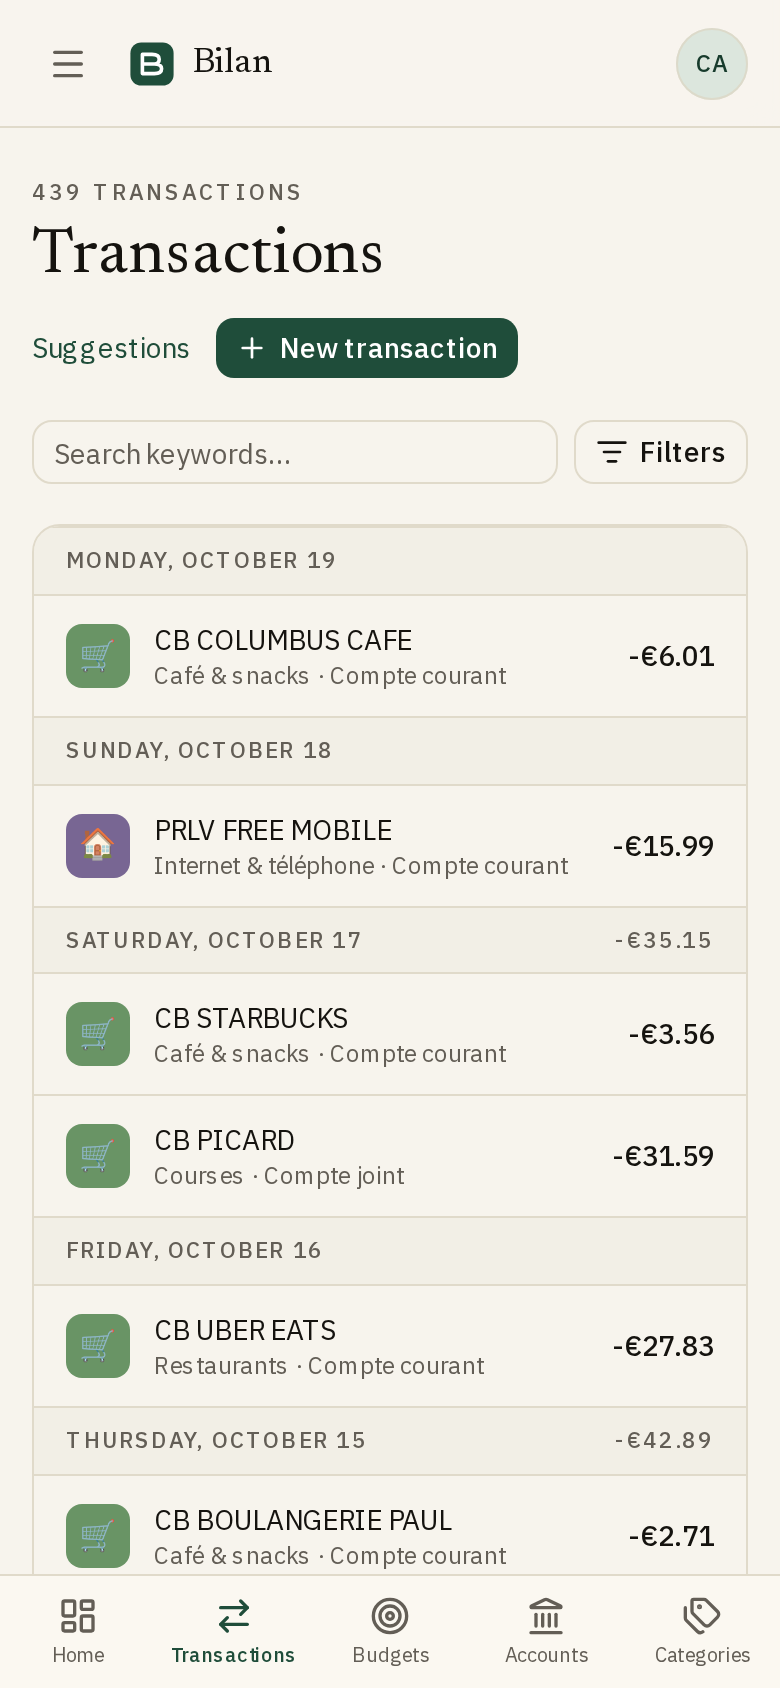
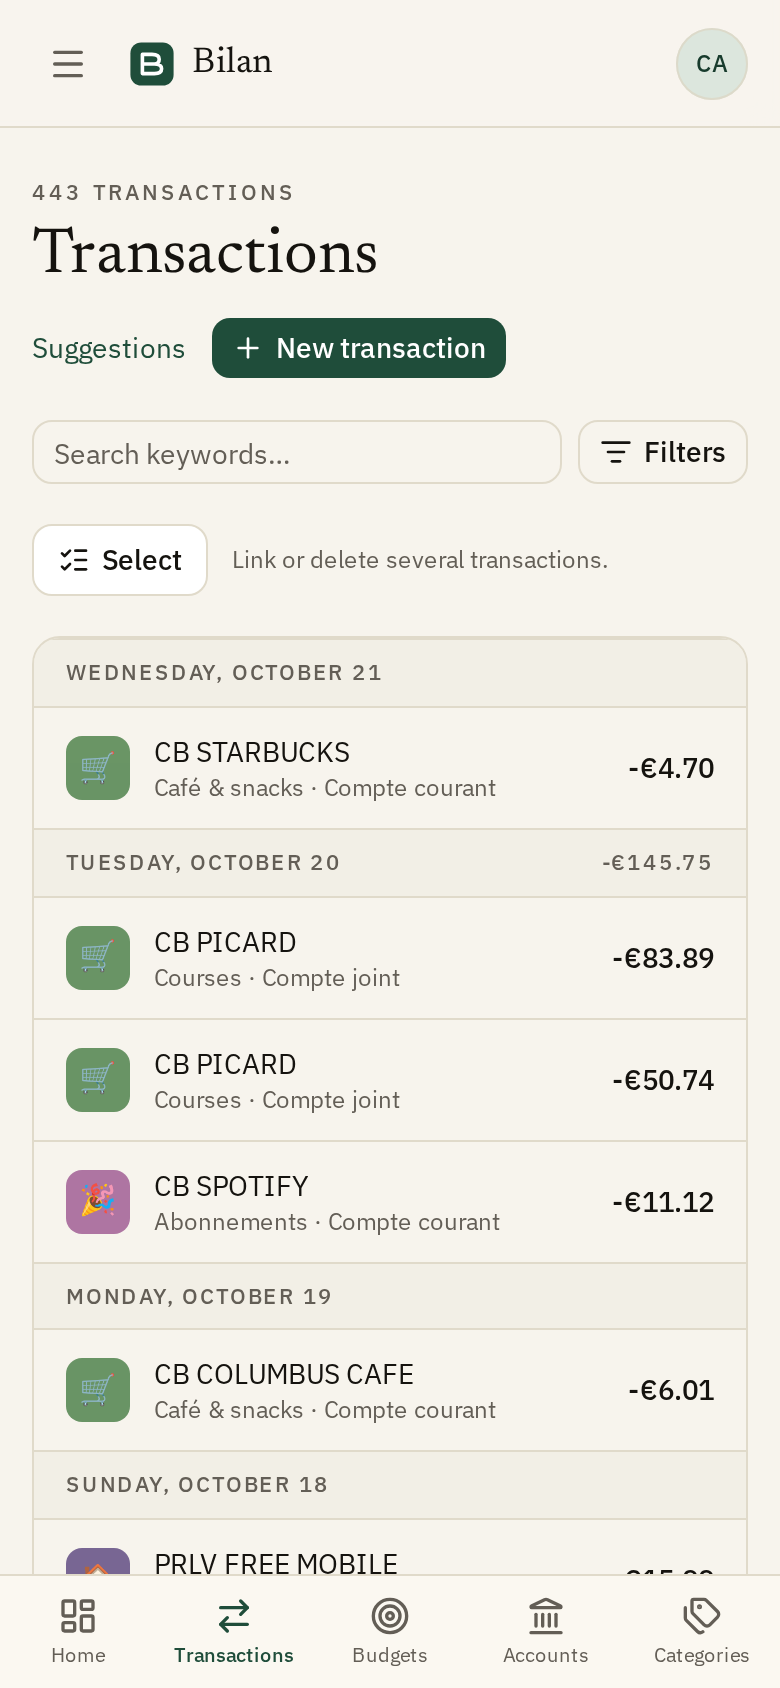
feat: show the selection mode on every screen and start a link from a transaction (#336)
* feat: show the selection mode on every screen and start a link from a transaction

* docs: refresh the transactions screenshots for the selection button and link entry

diff --git a/src/components/transactions/transaction-list.tsx b/src/components/transactions/transaction-list.tsx
@@ -2,6 +2,7 @@
 
 import { useState, useTransition } from "react";
 import { useLocale, useTranslations } from "next-intl";
+import { ListChecks } from "lucide-react";
 import { useRouter } from "next/navigation";
 import { CategoryAvatar, CategoryChip, Pill } from "./bits";
 import { type FlatCategory } from "./category-tree";
@@ -96,9 +97,13 @@ export function TransactionList({
   const tLink = useTranslations("transactions.link");
   const linkErrorMessage = useLinkErrorMessage();
   const tSel = useTranslations("transactions.selection");
-  const { selecting, picked, setSelecting, togglePicked } = useSelectionMode();
-  // Picks survive filter changes (the provider sits above the list): act on visible rows only.
-  const pickedIds = items.filter((i) => picked.has(i.id)).map((i) => i.id);
+  const { selecting, picked, anchor, setSelecting, startFrom, togglePicked } = useSelectionMode();
+  // Picks survive filter changes (the provider sits above the list): act on visible rows only,
+  // plus the anchor, which the selection bar names while it is hidden.
+  const visiblePicked = items.filter((i) => picked.has(i.id)).map((i) => i.id);
+  const hiddenAnchor =
+    anchor && picked.has(anchor.id) && !visiblePicked.includes(anchor.id) ? anchor : null;
+  const pickedIds = hiddenAnchor ? [hiddenAnchor.id, ...visiblePicked] : visiblePicked;
   const [linkPending, startLinkTransition] = useTransition();
   // Tied to the picks it was raised for, so changing the selection clears it.
   const [linkError, setLinkError] = useState<{ ids: string; message: string } | null>(null);
@@ -143,6 +148,10 @@ export function TransactionList({
   const selectionBar = selecting && (
     <SelectionBar
       count={pickedIds.length}
+      hiddenAnchor={
+        hiddenAnchor &&
+        `${hiddenAnchor.label} · ${new Intl.NumberFormat(locale, { style: "currency", currency: "EUR" }).format(hiddenAnchor.amount)}`
+      }
       linkPending={linkPending}
       error={linkError?.ids === pickedIds.join(",") ? linkError.message : null}
       onExit={() => setSelecting(false)}
@@ -225,16 +234,17 @@ export function TransactionList({
 
   return (
     <div className={`space-y-5 ${selecting ? "pb-20" : ""}`}>
-      {/* On mobile, selection mode is entered from the filter sheet. */}
       {!selecting && (
-        <div className="hidden lg:flex">
+        <div className="flex items-center gap-3">
           <button
             type="button"
             onClick={() => setSelecting(true)}
-            className="border-border text-muted-foreground hover:text-foreground inline-flex h-8 items-center gap-1.5 rounded-lg border px-2.5 text-[0.8rem]"
+            className="border-border bg-card hover:bg-muted inline-flex h-9 items-center gap-1.5 rounded-lg border px-3 text-sm font-medium"
           >
+            <ListChecks className="size-4" />
             {tSel("mode")}
           </button>
+          <span className="text-muted-foreground text-xs">{tSel("hint")}</span>
         </div>
       )}
 
@@ -367,6 +377,11 @@ export function TransactionList({
         }}
         onRecategorize={(categoryId) => selected && recategorize(selected, categoryId)}
         onDelete={() => selected && setDeleteIds([selected.id])}
+        onLinkFrom={() => {
+          if (!selected) return;
+          setSelectedId(null);
+          startFrom({ id: selected.id, label: selected.label, amount: selected.amount });
+        }}
       />
 
       {selectionBar}

diff --git a/tests/e2e/links.spec.ts b/tests/e2e/links.spec.ts
@@ -7,6 +7,55 @@ test.describe("transaction links", () => {
     "Mobile click-driven link flow deferred to Phase 8.3",
   );
 
+  test("a link started from a transaction keeps it while searching its counterpart (#335)", async ({
+    page,
+  }) => {
+    const stamp = Date.now();
+    const fee = `FRAISTENUE${stamp}`;
+    const rebate = `REMISE${stamp}`;
+    for (const [label, amount] of [
+      [fee, "-6"],
+      [rebate, "2"],
+    ] as const) {
+      await page.goto(`/fr/transactions?search=${label}`);
+      await expect(async () => {
+        await page.getByRole("button", { name: /nouvelle transaction/i }).click();
+        await expect(page.locator('input[name="date"]')).toBeVisible();
+      }).toPass();
+      await page.fill('input[name="date"]', "2026-03-02");
+      await page.fill('input[name="amount"]', amount);
+      await page.fill('input[name="label"]', label);
+      await page.getByRole("button", { name: /^ajouter$/i }).click();
+      await expect(
+        page.locator('[data-slot="transaction-row"]').filter({ hasText: label }).first(),
+      ).toBeVisible({ timeout: 15_000 });
+    }
+
+    // Now on the rebate's search: look the fee up, then start the link from its detail.
+    const search = page.locator('input[type="search"]:visible');
+    await search.fill(fee);
+    const feeRow = page.locator('[data-slot="transaction-row"]').filter({ hasText: fee }).first();
+    await feeRow.click();
+    await page.getByRole("button", { name: "Lier à d’autres transactions" }).click();
+    const bar = page.locator('[data-slot="selection-bar"]');
+    await expect(bar).toContainText("1 sélectionnée");
+
+    await search.fill(rebate);
+    await expect(feeRow).toBeHidden({ timeout: 15_000 });
+    await expect(bar.locator('[data-slot="selection-anchor"]')).toContainText(fee);
+    const rebateRow = page
+      .locator('[data-slot="transaction-row"]')
+      .filter({ hasText: rebate })
+      .first();
+    await rebateRow.click();
+    await expect(bar).toContainText("2 sélectionnées");
+    await bar.getByRole("button", { name: /^lier$/i }).click();
+    await expect(bar).toBeHidden({ timeout: 15_000 });
+
+    await rebateRow.click();
+    await expect(page.locator('[data-slot="link-summary"]')).toContainText(fee);
+  });
+
   test("link two transactions via selection mode and see them badged", async ({ page }) => {
     const stamp = Date.now();
     const expense = `Achat ${stamp}`;

diff --git a/src/components/transactions/selection-mode.tsx b/src/components/transactions/selection-mode.tsx
@@ -2,10 +2,16 @@
 
 import { createContext, useContext, useState } from "react";
 
+// The transaction a selection was started from (detail "link to…"): it stays selected
+// while filters hide it, so its counterpart can be searched for.
+export type SelectionAnchor = { id: string; label: string; amount: number };
+
 type SelectionModeState = {
   selecting: boolean;
   picked: Set<string>;
+  anchor: SelectionAnchor | null;
   setSelecting: (on: boolean) => void;
+  startFrom: (anchor: SelectionAnchor) => void;
   togglePicked: (id: string) => void;
 };
 
@@ -15,10 +21,17 @@ const SelectionModeContext = createContext<SelectionModeState | null>(null);
 export function SelectionModeProvider({ children }: { children: React.ReactNode }) {
   const [selecting, setMode] = useState(false);
   const [picked, setPicked] = useState<Set<string>>(new Set());
+  const [anchor, setAnchor] = useState<SelectionAnchor | null>(null);
 
   function setSelecting(on: boolean) {
     setMode(on);
     setPicked(new Set());
+    setAnchor(null);
+  }
+  function startFrom(next: SelectionAnchor) {
+    setMode(true);
+    setPicked(new Set([next.id]));
+    setAnchor(next);
   }
   function togglePicked(id: string) {
     setPicked((prev) => {
@@ -30,7 +43,9 @@ export function SelectionModeProvider({ children }: { children: React.ReactNode 
   }
 
   return (
-    <SelectionModeContext.Provider value={{ selecting, picked, setSelecting, togglePicked }}>
+    <SelectionModeContext.Provider
+      value={{ selecting, picked, anchor, setSelecting, startFrom, togglePicked }}
+    >
       {children}
     </SelectionModeContext.Provider>
   );

diff --git a/src/components/transactions/transaction-detail.tsx b/src/components/transactions/transaction-detail.tsx
@@ -19,7 +19,7 @@ import { Pill, overline } from "./bits";
 import { TransactionEditForm } from "./transaction-edit-form";
 import { useLinkErrorMessage } from "./link-error";
 import { NativeSelect } from "@/components/ui/native-select";
-import { Pencil, Trash2, Unlink } from "lucide-react";
+import { Link2, Pencil, Trash2, Unlink } from "lucide-react";
 import { formatPeriodLabel } from "@/lib/period";
 import { formatDate, formatLongDay } from "@/lib/format";
 import { editScope } from "@/lib/transaction-edit";
@@ -70,6 +70,7 @@ export function TransactionDetail({
   onClose,
   onRecategorize,
   onDelete,
+  onLinkFrom,
 }: {
   item: DetailItem | null;
   accounts: Record<string, AccountMeta>;
@@ -84,6 +85,7 @@ export function TransactionDetail({
   onClose: () => void;
   onRecategorize: (categoryId: string) => void;
   onDelete: () => void;
+  onLinkFrom?: () => void;
 }) {
   const t = useTranslations("transactions");
   const tBudgets = useTranslations("budgets");
@@ -327,6 +329,14 @@ export function TransactionDetail({
                   </div>
                 </Field>
 
+                {!item.linked && acc?.writable && onLinkFrom && (
+                  <Field label={tLink("field")}>
+                    <Button type="button" variant="outline" className="w-full" onClick={onLinkFrom}>
+                      <Link2 />
+                      {tLink("startFrom")}
+                    </Button>
+                  </Field>
+                )}
                 {linkSummary && (
                   <Field label={tLink("linkedTo")}>
                     <div data-slot="link-summary" className="space-y-2">

diff --git a/src/components/transactions/selection-bar.tsx b/src/components/transactions/selection-bar.tsx
@@ -7,6 +7,7 @@ import { Button } from "@/components/ui/button";
 // Floats above the mobile bottom nav (~4.5rem) so the actions stay in reach while scrolling.
 export function SelectionBar({
   count,
+  hiddenAnchor,
   linkPending,
   error,
   onExit,
@@ -14,6 +15,7 @@ export function SelectionBar({
   onDelete,
 }: {
   count: number;
+  hiddenAnchor?: string | null;
   linkPending: boolean;
   error?: string | null;
   onExit: () => void;
@@ -26,6 +28,14 @@ export function SelectionBar({
       data-slot="selection-bar"
       className="bg-card fixed inset-x-3 bottom-[calc(4.5rem+env(safe-area-inset-bottom))] z-40 mx-auto flex max-w-[480px] flex-wrap items-center gap-2 rounded-2xl border p-2.5 shadow-lg lg:bottom-6"
     >
+      {hiddenAnchor && (
+        <p
+          data-slot="selection-anchor"
+          className="text-muted-foreground w-full truncate px-1.5 text-xs"
+        >
+          {t("selection.with", { label: hiddenAnchor })}
+        </p>
+      )}
       {error && (
         <p role="alert" className="text-destructive w-full px-1.5 text-sm">
           {error}

diff --git a/docs/user-guide.fr.md b/docs/user-guide.fr.md
@@ -191,7 +191,7 @@ Si vous laissez la catégorie vide, vos [règles](#règles) essaient d’en trou
 
 ### Sélectionner plusieurs transactions
 
-1. Cliquez sur **Sélectionner** au-dessus de la liste (sur téléphone, c’est un interrupteur dans **Filtres**).
+1. Cliquez sur **Sélectionner** au-dessus de la liste (sur téléphone, l’interrupteur dans **Filtres** marche aussi).
 2. Cochez les transactions. Celles des comptes que vous pouvez seulement consulter ne sont pas sélectionnables.
 3. Cliquez sur **Lier** (2 transactions ou plus) ou **Supprimer** dans la barre qui apparaît.
 
@@ -378,7 +378,7 @@ Les transactions liées restent dans la liste avec l’étiquette **Liée**.
 ![Suggestions de liens](images/fr/suggestions.png)
 
 - **Depuis les suggestions** : sur **Transactions**, cliquez sur **Suggestions**. Bilan propose des paires de même montant et de sens opposé, à 30 jours d’écart au plus. Cliquez sur **Lier** pour accepter une paire ou **Ignorer** pour l’écarter. Les paires ignorées sont listées plus bas, et **Restaurer** permet de les suggérer de nouveau. **Réglages** modifie, pour vous seul, l’**Écart maximal (jours)** entre les deux opérations (0 pour le même jour, jusqu’à 365) et le **Montant minimum** en dessous duquel aucune paire n’est suggérée.
-- **À la main** : [sélectionnez](#sélectionner-plusieurs-transactions) deux transactions ou plus et cliquez sur **Lier**.
+- **À la main** : [sélectionnez](#sélectionner-plusieurs-transactions) deux transactions ou plus et cliquez sur **Lier**. Vous pouvez aussi ouvrir une transaction et cliquer sur **Lier à d’autres transactions** : elle est sélectionnée, et le reste pendant que vous cherchez ou filtrez les autres (la barre de sélection la rappelle).
 
 Rien n’est lié automatiquement. Il faut un accès en écriture à chaque compte concerné.
 

diff --git a/docs/user-guide.md b/docs/user-guide.md
@@ -191,7 +191,7 @@ If you leave the category empty, your [rules](#rules) try to find one from the l
 
 ### Select several transactions
 
-1. Click **Select** above the list (on a phone, it's a switch in **Filters**).
+1. Click **Select** above the list (on a phone, the switch in **Filters** works too).
 2. Tick the transactions. Those on accounts you can only read can't be selected.
 3. Click **Link** (2 or more transactions) or **Delete** in the bar that appears.
 
@@ -378,7 +378,7 @@ Linked transactions stay in the list with a **Linked** tag.
 ![Link suggestions](images/en/suggestions.png)
 
 - **From suggestions**: on **Transactions**, click **Suggestions**. Bilan suggests pairs with the same amount and opposite signs, at most 30 days apart. Click **Link** to accept a pair or **Ignore** to dismiss it. Ignored pairs are listed further down, and **Restore** makes a pair eligible again. **Settings** changes, for you only, the **Maximum gap (days)** between the two transactions (0 for the same day, up to 365) and the **Minimum amount** below which pairs aren't suggested.
-- **By hand**: [select](#select-several-transactions) two or more transactions and click **Link**.
+- **By hand**: [select](#select-several-transactions) two or more transactions and click **Link**. You can also open a transaction and click **Link to other transactions**: it is selected, and stays selected while you search or filter for the others (the selection bar names it).
 
 Nothing is linked automatically. Linking requires write access to every account involved.
 

diff --git a/docs/architecture.md b/docs/architecture.md
@@ -1032,7 +1032,7 @@ The budget detail lists the latest 100 counted transactions in full to everyone 
 
 **Manual mode**:
 1. `/transactions`: selection mode (local state, also used for bulk delete).
-2. Click transactions to select (2+; none already in a link).
+2. Click transactions to select (2+; none already in a link). Picks survive filter changes, but only visible ones are acted on, except the transaction a selection was started from (detail panel "Link to other transactions"), which stays included and is named in the selection bar while hidden.
 3. Confirm: `createLinkAction` → `links.createLink({ transactionIds, userId })` → requires WRITE on every account involved → creates `TransactionLink` + `TransactionLinkMember[]` (audit `link.created`). Unlinking (`deleteLink`) also needs WRITE on every member's account.
 
 **Auto suggestions**: `links.suggestPairs(userId)`:
